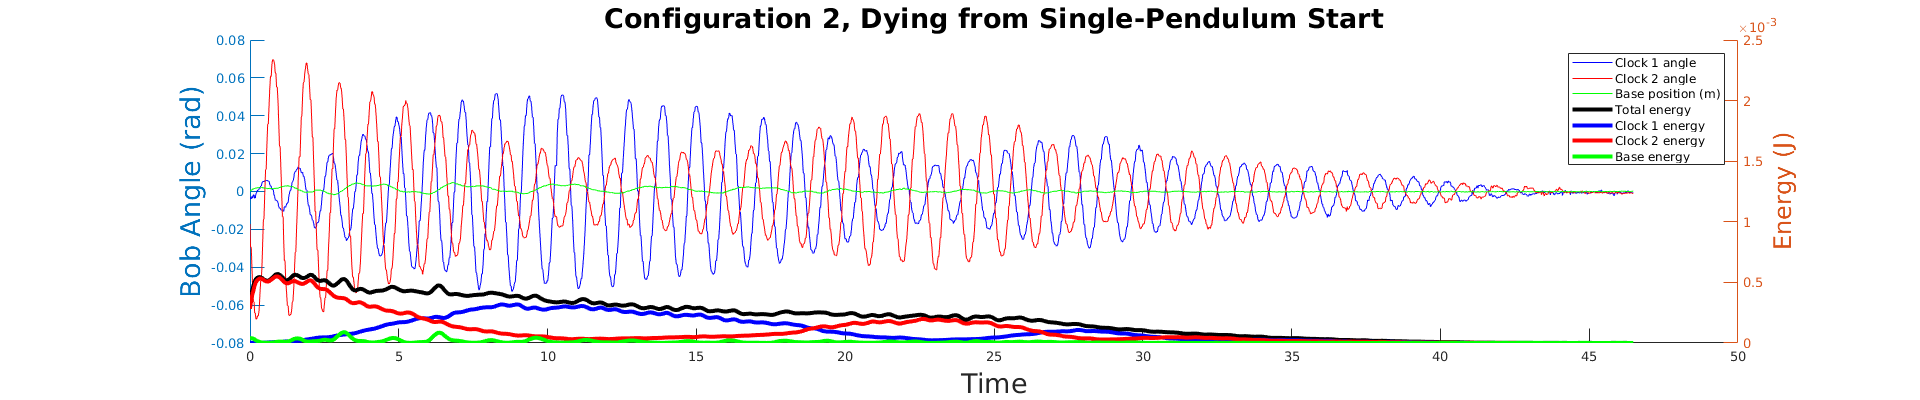
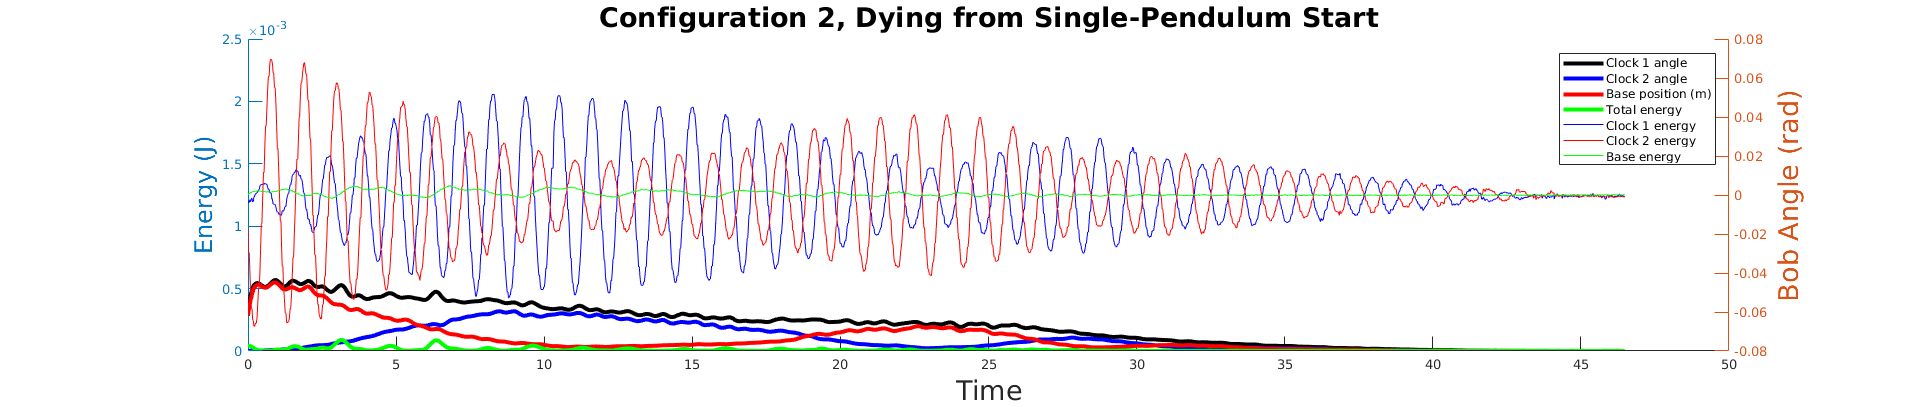
Switched left and right axes on all data graphs

diff --git a/Project 1/plot_data.m b/Project 1/plot_data.m
@@ -24,9 +24,9 @@ gravity = 9.8;
 % tdfread('data/cleaned/final_medium_singlestart_death1.tsv');
 % M = M+.735;
 
-plottitle='Configuration 2, Barely Dying from Single-Pendulum Start';
-tdfread('data/cleaned/final_medium_singlestart_death2.tsv');
-M = M+.735;
+% plottitle='Configuration 2, Barely Dying from Single-Pendulum Start';
+% tdfread('data/cleaned/final_medium_singlestart_death2.tsv');
+% M = M+.735;
 
 %% Configuration 3
 
@@ -38,9 +38,9 @@ M = M+.735;
 % Time = Time(Time<75);
 % M = M+1.525;
 
-% plottitle='Configuration 3, Dying from Single-Pendulum Start';
-% tdfread('data/cleaned/final_heavy_singlestart_death.tsv');
-% M = M+1.525;
+plottitle='Configuration 3, Dying from Single-Pendulum Start';
+tdfread('data/cleaned/final_heavy_singlestart_death.tsv');
+M = M+1.525;
 
 % plottitle='Configuration 3, Dying';
 % tdfread('data/cleaned/final_heavy_death1.tsv');
@@ -69,13 +69,13 @@ e3=conv(e3,g2,'same');
 
 figure('pos',[10 10 1920 400])
 hold on
-yyaxis left
+yyaxis right
 plot(Time, theta1,'b-', 'LineWidth', .5)
 plot(Time, theta2,'r-', 'LineWidth', .5)
 plot(Time, x,'g-', 'LineWidth', .5)
 hy = ylabel('Bob Angle (rad)');
 set(hy, 'FontSize', 20)
-yyaxis right
+yyaxis left
 ylim([0,2.5e-3]);
 plot(Time, e1+e2+e3,'k-', 'LineWidth', 3)
 plot(Time, e1,'b-', 'LineWidth', 3)
